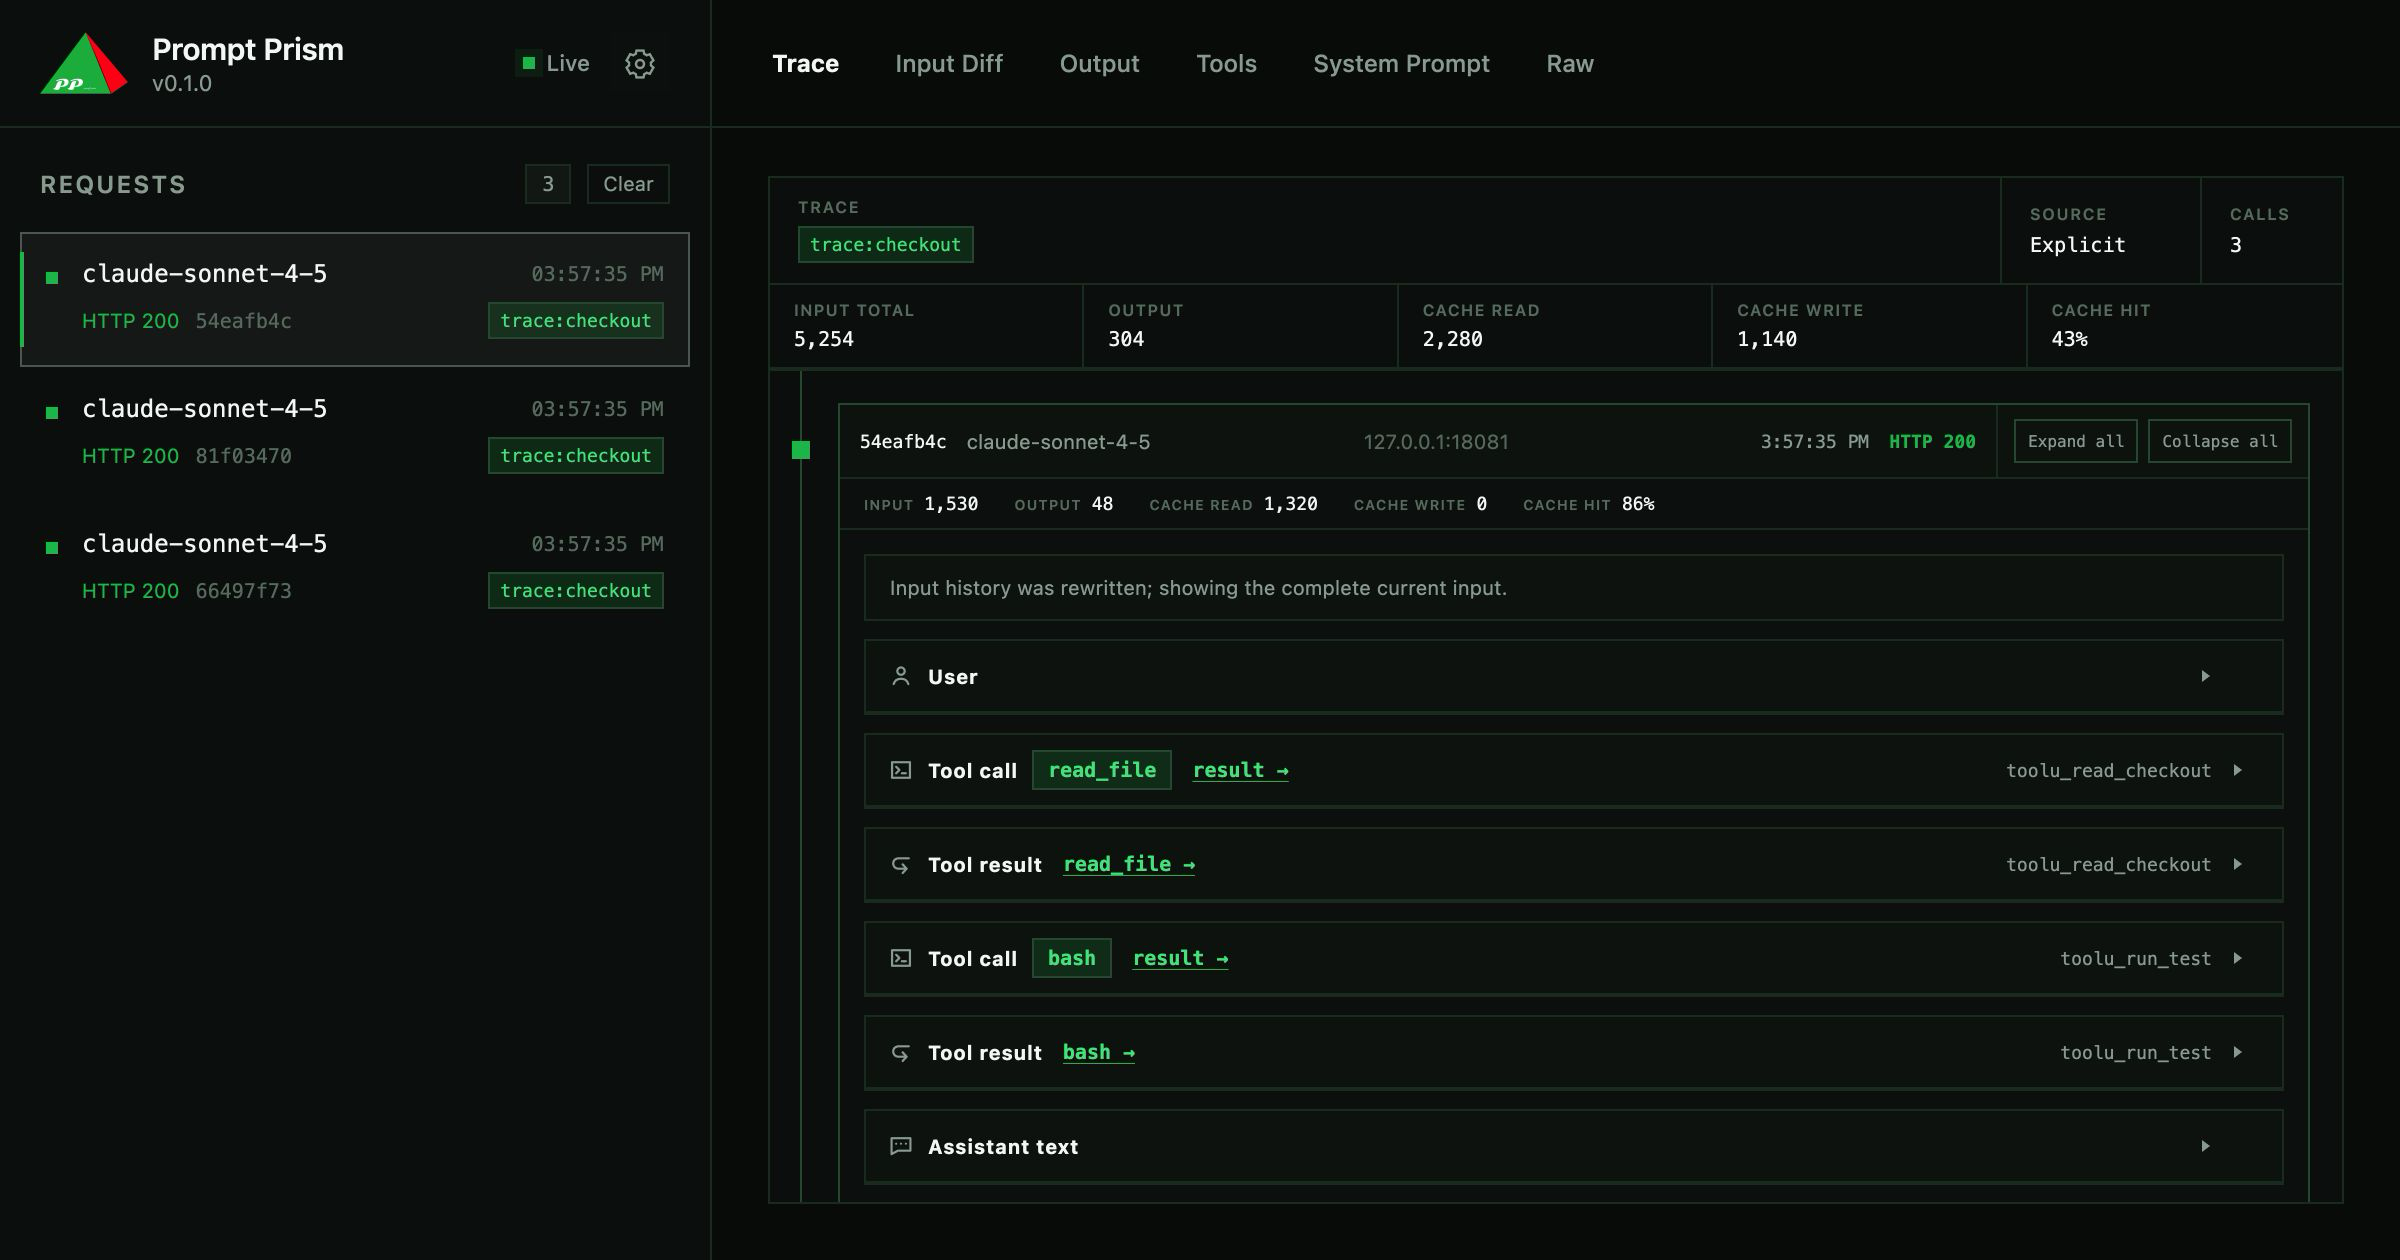
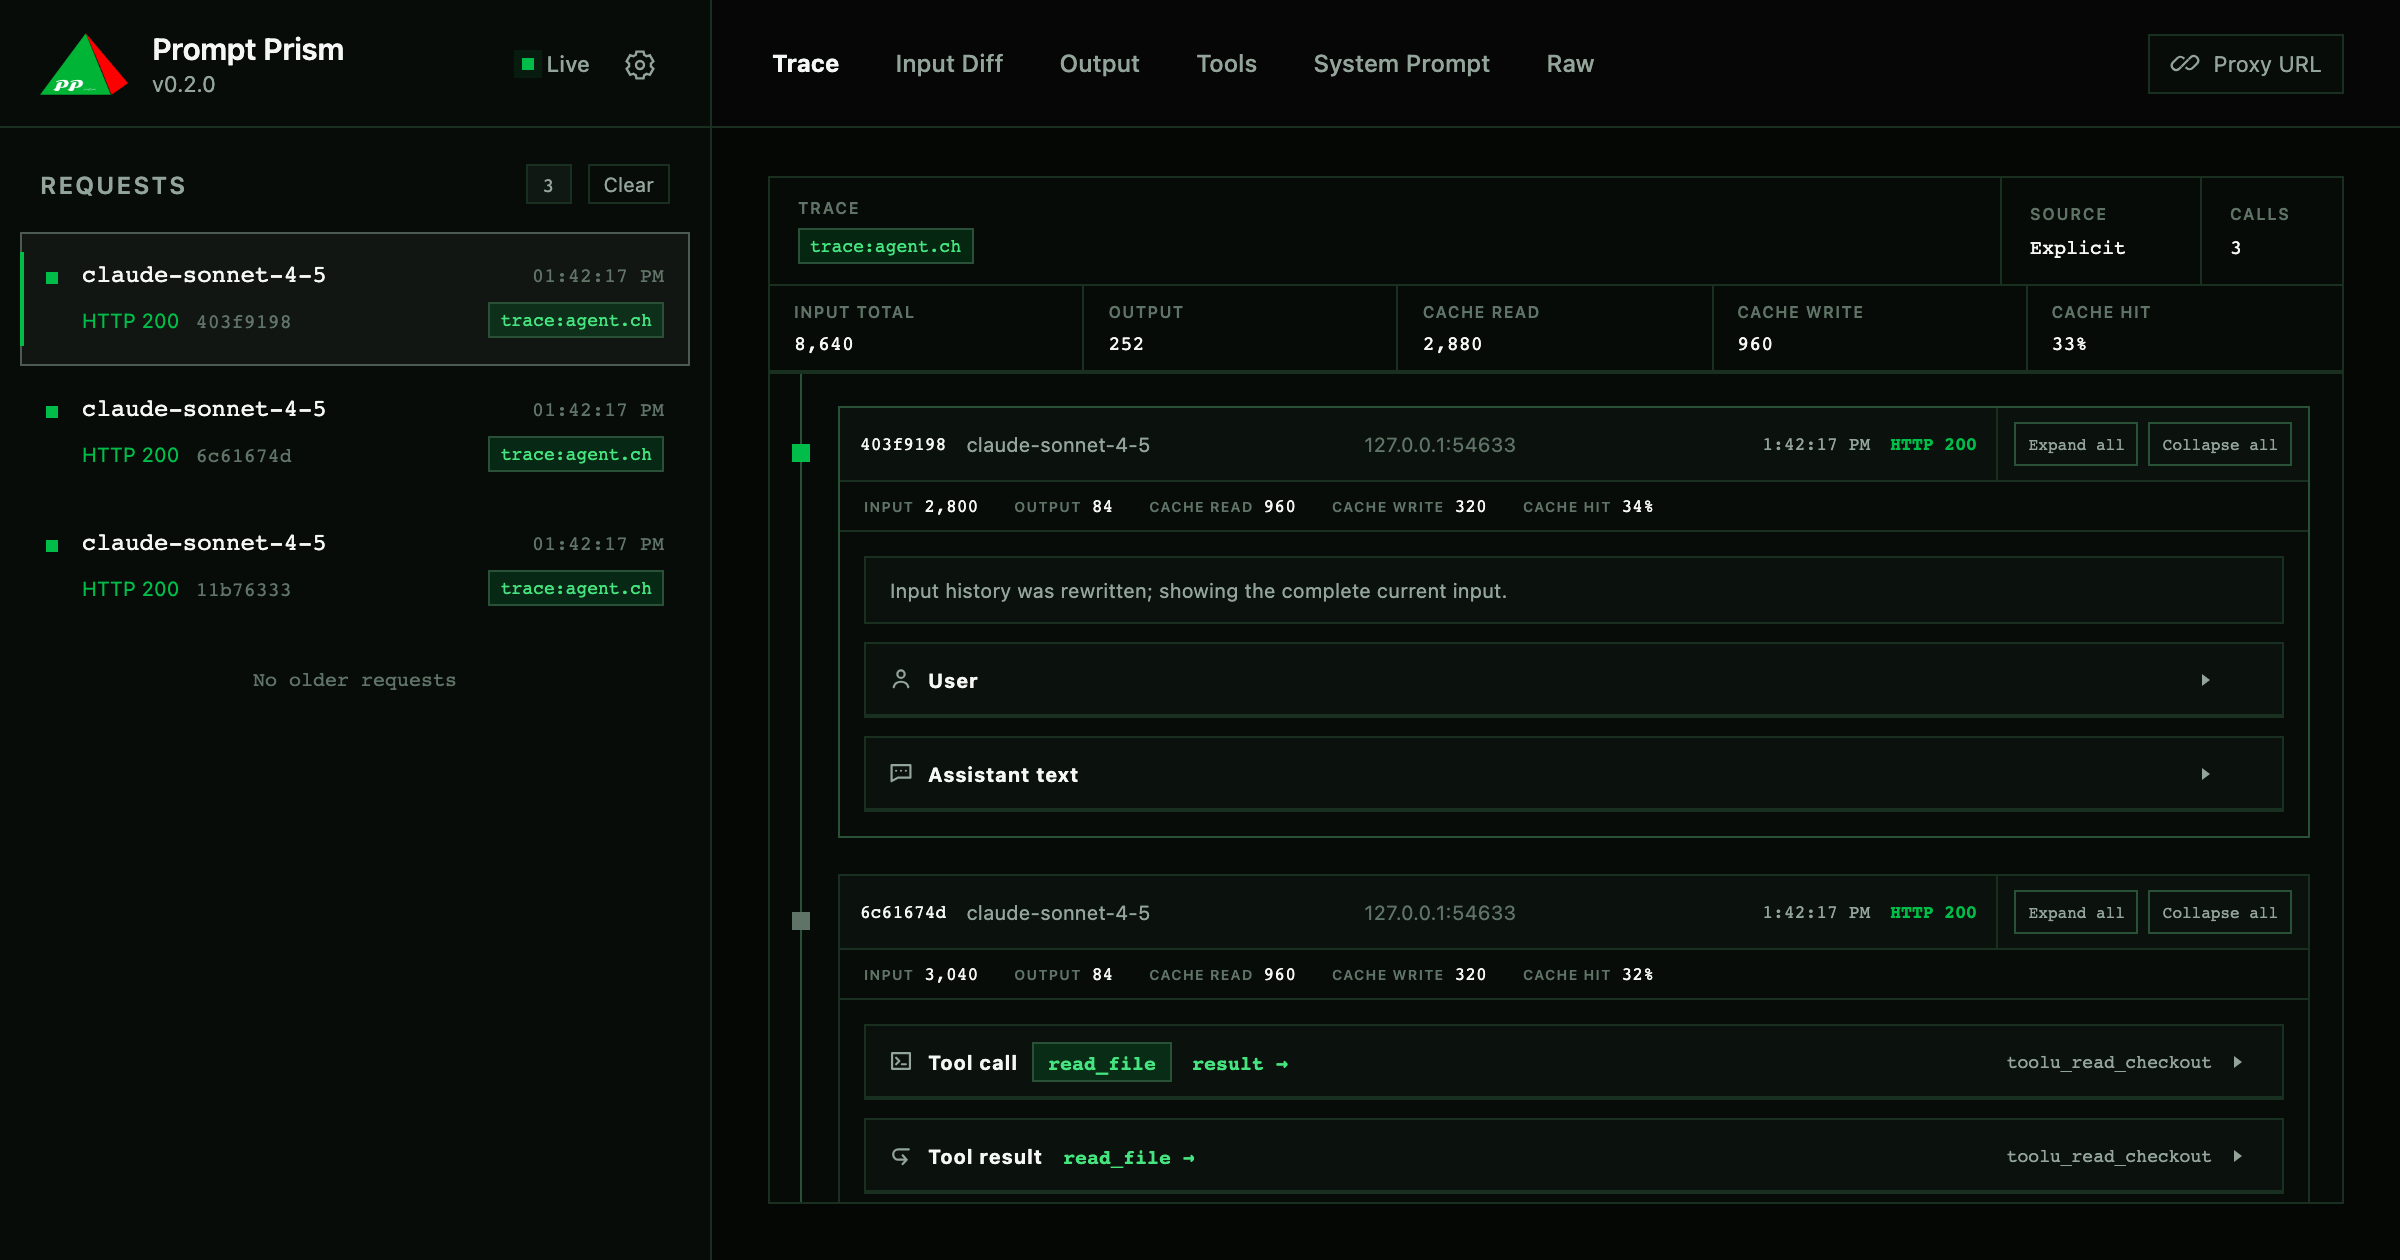
feat: add dashboard screenshot skill

diff --git a/docs/index.html b/docs/index.html
@@ -16,7 +16,7 @@
     <meta property="og:image" content="https://tao-zhi-1992.github.io/prompt-prism/dashboard.png">
     <meta property="og:image:width" content="2400">
     <meta property="og:image:height" content="1260">
-    <meta property="og:image:alt" content="Prompt Prism dashboard showing a multi-request agent trace">
+    <meta property="og:image:alt" content="Prompt Prism Dashboard showing a multi-request agent trace and Proxy URL button">
     <meta name="twitter:card" content="summary_large_image">
     <meta name="twitter:title" content="Prompt Prism">
     <meta name="twitter:description" content="Inspect exactly what your model receives.">
@@ -68,7 +68,7 @@
           <span><i></i> Live inspection</span>
           <code>127.0.0.1:1028/_pp/</code>
         </div>
-        <img src="./dashboard.png" width="1200" height="630" alt="Prompt Prism dashboard showing a multi-request agent trace">
+        <img src="./dashboard.png" width="1200" height="630" alt="Prompt Prism Dashboard showing a multi-request agent trace and Proxy URL button">
       </section>
 
       <section class="section" id="features" aria-labelledby="features-title">

diff --git a/docs/index.zh-CN.html b/docs/index.zh-CN.html
@@ -16,7 +16,7 @@
     <meta property="og:image" content="https://tao-zhi-1992.github.io/prompt-prism/dashboard.png">
     <meta property="og:image:width" content="2400">
     <meta property="og:image:height" content="1260">
-    <meta property="og:image:alt" content="Prompt Prism 仪表盘，显示多请求 Agent 轨迹">
+    <meta property="og:image:alt" content="Prompt Prism 仪表盘，显示多请求 Agent 轨迹和代理地址按钮">
     <meta name="twitter:card" content="summary_large_image">
     <meta name="twitter:title" content="Prompt Prism">
     <meta name="twitter:description" content="精确查看你的模型接收了什么。">
@@ -68,7 +68,7 @@
           <span><i></i> 实时检查</span>
           <code>127.0.0.1:1028/_pp/</code>
         </div>
-        <img src="./dashboard.png" width="1200" height="630" alt="Prompt Prism 仪表盘，显示多请求 Agent 轨迹">
+        <img src="./dashboard.png" width="1200" height="630" alt="Prompt Prism 仪表盘，显示多请求 Agent 轨迹和代理地址按钮">
       </section>
 
       <section class="section" id="features" aria-labelledby="features-title">

diff --git a/.agents/skills/dashboard-screenshot/SKILL.md b/.agents/skills/dashboard-screenshot/SKILL.md
@@ -1,0 +1,37 @@
+---
+name: dashboard-screenshot
+description: Regenerate the Prompt Prism Dashboard product screenshot with isolated mock captures, verify the Proxy URL presentation, and smoke-test the English and Chinese landing pages. Use when updating docs/dashboard.png or checking that the published product image matches the current Dashboard.
+---
+
+# Dashboard Screenshot
+
+Use this skill when the Dashboard product image needs to be regenerated. It produces the repository's standard `docs/dashboard.png` asset at 2400×1260 while keeping the Dashboard at a 1200×630 CSS viewport with a 2× device scale factor.
+
+## Workflow
+
+Run from the repository root:
+
+```bash
+pnpm exec node .agents/skills/dashboard-screenshot/scripts/capture-dashboard.mjs
+```
+
+The script performs these steps in order:
+
+1. Build the current Prompt Prism and Dashboard artifacts with `pnpm --filter prompt-prism build:all`.
+2. Create an isolated temporary mock Anthropic upstream and temporary capture directory. It sends three real `POST /v1/messages` requests through Prompt Prism, including the `agent.checkout` trace, tool use/result data, messages, and token usage.
+3. Start the compiled Prompt Prism server on loopback and load the compiled Dashboard with Chromium in dark mode.
+4. Assert that the current version, Requests list, Trace content, and closed `Proxy URL` button are visible. The candidate screenshot is written to a temporary directory first.
+5. Serve the landing pages with the candidate image and check both English and Chinese pages for HTTP 200, image dimensions, required alt text, and no horizontal overflow.
+6. Atomically replace `docs/dashboard.png` only after every check succeeds. A failed run leaves the existing product image untouched.
+
+## Invariants
+
+- The output is a PNG of exactly 2400×1260; do not change the landing page's 1200×630 display dimensions for this workflow.
+- Keep the dark theme, the full Dashboard shell, Requests, Trace/Tools content, and the top-right `Proxy URL` button visible. Do not open its dialog.
+- Use only temporary mock data. Never use the repository's `data/` directory, real provider endpoints, API keys, credentials, or user captures.
+- Inspect the resulting image visually after the script completes. Look for readable primary regions, no modal overlay, no secrets, and no temporary URLs.
+- This skill updates only `docs/dashboard.png`; landing page HTML is validated but not rewritten.
+
+## Failure handling
+
+If build, mock traffic, browser assertions, landing smoke checks, or PNG validation fails, fix the underlying issue and rerun the script. Do not manually copy a partial screenshot into `docs/dashboard.png`.
